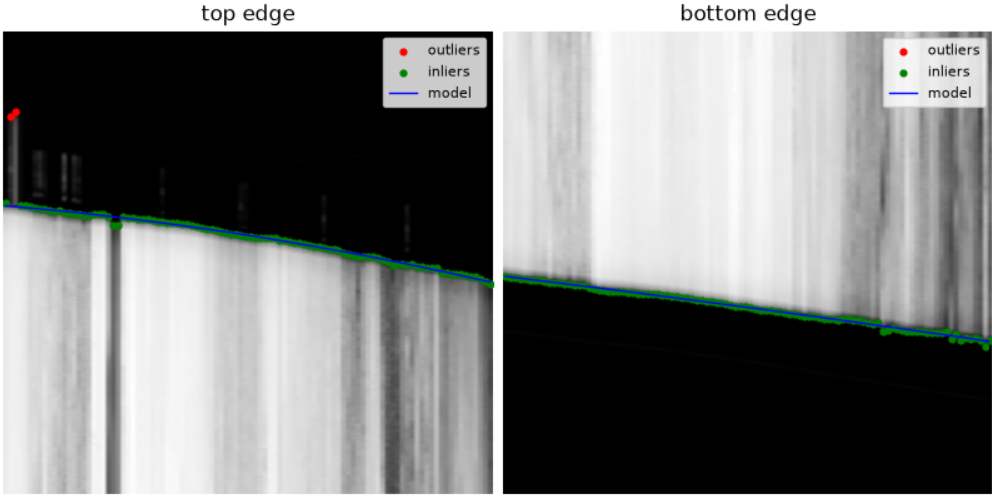
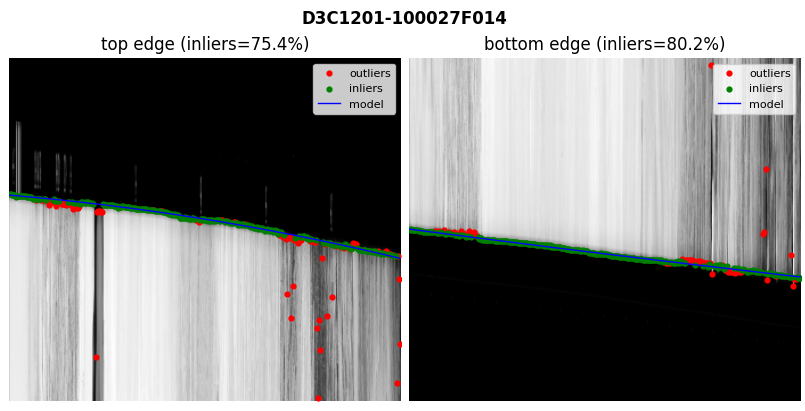
code review and a bit of cleaning

Changed region(s): [[0.0, 0.0, 1.0, 1.0], [0.4969, 0.8175, 0.528, 0.8467]]

diff --git a/src/hipp/kh9pc/restitution/poly_strategy.py b/src/hipp/kh9pc/restitution/poly_strategy.py
@@ -1,31 +1,32 @@
 """
 Copyright (c) 2026 HIPP developers
 Description: PolyStrategy — polynomial edge fitting for KH-9 PC restitution. Samples
-    rupture points along the top and bottom film edges in a downsampled grid, fits a
-    RANSAC polynomial per edge, then applies a Thin Plate Spline warp to straighten
-    the curved edges.
+    edge points along the top and bottom film edges in a downsampled grid, fits a
+    RANSAC polynomial per edge, then applies an affine warp to straighten the
+    detected edges.
 """
 
 from dataclasses import dataclass, field
 from pathlib import Path
 from typing import Self
 
+import cv2
 import numpy as np
 import rasterio
 from numpy.typing import NDArray
 from rasterio.windows import Window
 from skimage.transform import AffineTransform
 from sklearn.linear_model import RANSACRegressor
-import cv2
 
 from hipp.image import SubImage, remap_tif_blockwise
-from hipp.kh9pc.kh9_image_spec import KH9ImageSpec
 from hipp.kh9pc.restitution.base import RestitutionStrategy, Transformation, fit_ransac_poly
 from hipp.kh9pc.restitution.vertical_detector import VerticalDetector
 
 
 @dataclass
 class PolyResult:
+    """Fitted polynomial edge model and diagnostics for one side (top or bottom)."""
+
     edge_points_global: NDArray[np.integer]
     edge_points_local: NDArray[np.integer]
     model: RANSACRegressor
@@ -36,10 +37,11 @@ class PolyResult:
 class PolyStrategy(RestitutionStrategy):
     """Restitution strategy based on polynomial edge fitting.
 
-    Detects rupture points along the top and bottom film edges in a downsampled
+    Detects edge points along the top and bottom film edges in a downsampled
     horizontal grid, fits a RANSAC polynomial per edge, then warps the image with
-    a Thin Plate Spline transform to map the curved edges to horizontal target lines.
-    Fails if the inlier ratio on either edge falls below ``min_inliers_threshold``.
+    an affine transform to map the detected edges to horizontal target lines.
+    Fails if the top/bottom gap strays too far from the expected image height,
+    in mean or in standard deviation (see ``compute_metrics``).
     """
 
     vertical_detector: VerticalDetector = field(default_factory=VerticalDetector)
@@ -61,7 +63,7 @@ class PolyStrategy(RestitutionStrategy):
 
     @property
     def is_failed(self) -> bool:
-        """True if either edge inlier ratio is below ``min_inliers_threshold``."""
+        """True if the top/bottom gap's relative error or std exceeds ``max_relative_error``/``max_std``."""
         relative_error, std_dist = self.compute_metrics()
 
         return (relative_error > self.max_relative_error) or (std_dist > self.max_std)
@@ -82,7 +84,7 @@ class PolyStrategy(RestitutionStrategy):
 
     @property
     def transformation_(self) -> Transformation:
-        """TPS Transformation from curved edges to horizontal lines (computed lazily)."""
+        """Affine Transformation from detected edges to horizontal lines (computed lazily)."""
         if self.__transformation_ is None:
             self.__transformation_ = self._compute_transformation()
         return self.__transformation_
@@ -94,7 +96,7 @@ class PolyStrategy(RestitutionStrategy):
 
         col_off, _ = self.vertical_detector.edges_
         window_width = self.vertical_detector.detected_width_
-        expected_height = KH9ImageSpec.from_raster_filepath(raster_filepath).expected_size[1]
+        expected_height = self.spec_.expected_size[1]
 
         with rasterio.open(raster_filepath) as src:
             window_height = src.height - expected_height
@@ -137,7 +139,7 @@ class PolyStrategy(RestitutionStrategy):
         """Build an affine Transformation that maps the fitted curved edges to horizontal target lines."""
         left, right = self.vertical_detector.edges_
         detected_width = self.vertical_detector.detected_width_
-        output_width, output_height = KH9ImageSpec.from_raster_filepath(self.raster_filepath_).expected_size
+        output_width, output_height = self.spec_.expected_size
 
         x = np.linspace(left, right, self.n_points)
 
@@ -154,8 +156,8 @@ class PolyStrategy(RestitutionStrategy):
         dst = np.column_stack((np.concatenate((x, x)), np.concatenate((y_top_dst, y_bot_dst))))
 
         # inverse source destination (important)
-        deformation = AffineTransform()
-        if not deformation.estimate(dst, src):
+        deformation = AffineTransform().from_estimate(dst, src)
+        if not deformation:
             raise RuntimeError("Affine transformation estimation failed.")
 
         # ---- CENTERING TO OUTPUT ----
@@ -172,7 +174,7 @@ class PolyStrategy(RestitutionStrategy):
         )
 
     def transform(self, output_path: str | Path) -> None:
-        """Write the restituted image using the polynomial TPS warp."""
+        """Write the restituted image using the polynomial affine warp."""
         tf = self.transformation_
 
         remap_tif_blockwise(
@@ -180,11 +182,14 @@ class PolyStrategy(RestitutionStrategy):
             output_path,
             tf.inverse_remap,
             tf.output_size,
-            block_size=2**13,
-            lowres_step=100,
         )
 
     def compute_metrics(self) -> tuple[float, float]:
+        """Compare the fitted top/bottom gap to the expected image height.
+
+        Returns the relative error between the mean gap and the expected height,
+        and the gap's standard deviation across the detected width.
+        """
         start, end = self.vertical_detector.edges_
 
         X = np.linspace(start, end, 100).reshape(-1, 1)
@@ -194,7 +199,7 @@ class PolyStrategy(RestitutionStrategy):
 
         dist = y_bottom - y_top
 
-        true_height = KH9ImageSpec.from_raster_filepath(self.raster_filepath_).expected_size[1]
+        true_height = self.spec_.expected_size[1]
 
         relative_error = np.abs(np.mean(dist) - true_height) / true_height
         std_dist = np.std(dist)
@@ -203,6 +208,10 @@ class PolyStrategy(RestitutionStrategy):
 
 
 def find_edge_on_vec(vec: NDArray[np.floating], threshold: float = 20.0, reverse_scan: bool = False) -> int | None:
+    """Locate the film edge in a 1D column profile as the steepest gradient before the background threshold crossing.
+
+    Returns None if the profile never drops below *threshold*.
+    """
     if reverse_scan:
         vec = vec[::-1]
 
@@ -223,6 +232,7 @@ def find_edge_on_vec(vec: NDArray[np.floating], threshold: float = 20.0, reverse
 
 
 def find_edge_points(img: cv2.typing.MatLike, threshold: float = 20, reverse_scan: bool = False) -> NDArray[np.integer]:
+    """Run ``find_edge_on_vec`` on every column of *img*, returning the ``(col, row)`` of each detected edge."""
     res = []
     for i in range(img.shape[1]):
         edge = find_edge_on_vec(img[:, i].astype(np.float64), threshold, reverse_scan)

diff --git a/src/hipp/kh9pc/restitution/fiducial_strategy.py b/src/hipp/kh9pc/restitution/fiducial_strategy.py
@@ -28,7 +28,6 @@ from hipp.kh9pc.fiducial_patterns import (
     compute_global_src_and_dst_points,
     evaluate_pattern,
 )
-from hipp.kh9pc.kh9_image_spec import KH9ImageSpec
 from hipp.kh9pc.restitution.base import DEFAULT_OUTPUT_HEIGHT, DetectionError, RestitutionStrategy, Transformation
 from hipp.kh9pc.restitution.poly_strategy import PolyStrategy
 
@@ -91,11 +90,6 @@ class FiducialStrategy(RestitutionStrategy):
     ----------
     poly_strategy:
         Fitted (or to-be-fitted) strategy that provides the horizontal edge models.
-    kh9_image_spec:
-        Image specification describing which fiducial template set to use
-        (``fiducial_type`` field: ``"disk"`` for missions D3C1201–D3C1213,
-        ``"wagon_wheel"`` for D3C1214–D3C1219). If ``None`` (default), the spec
-        is inferred from the image filename at fit time via
     block_width:
         Width in pixels of each scanning block.
     threshold:
@@ -109,7 +103,6 @@ class FiducialStrategy(RestitutionStrategy):
     """
 
     poly_strategy: PolyStrategy = field(default_factory=PolyStrategy)
-    polynomial_degree: int = 7
     block_width: int = 512
     threshold: float = 0.5
     nms_threshold: float = 0.1
@@ -121,7 +114,6 @@ class FiducialStrategy(RestitutionStrategy):
         super().__init__()
         self._results: dict[str, FiducialResult] = {}
         self.__transformation_: Transformation | None = None
-        self.kh9_image_spec_: KH9ImageSpec | None = None
 
     # ------------------------------------------------------------------
     # Public properties
@@ -144,10 +136,8 @@ class FiducialStrategy(RestitutionStrategy):
     @property
     def is_failed(self) -> bool:
         """True if both primary patterns (top and bottom) score below ``min_score_threshold``."""
-        if self.kh9_image_spec_ is None:
-            raise RuntimeError("Call fit() before")
-        primary_top_pattern = self.kh9_image_spec_.top_fiducial_patterns[0]
-        primary_bottom_pattern = self.kh9_image_spec_.bottom_fiducial_patterns[0]
+        primary_top_pattern = self.spec_.top_fiducial_patterns[0]
+        primary_bottom_pattern = self.spec_.bottom_fiducial_patterns[0]
 
         return (
             self.top_.patterns[primary_top_pattern].score < self.min_score_threshold
@@ -179,8 +169,7 @@ class FiducialStrategy(RestitutionStrategy):
 
     def _fit(self, raster_filepath: Path) -> Self:
         """Infer image spec, run PolyStrategy, then scan both sides for fiducial detections."""
-        self.kh9_image_spec_ = KH9ImageSpec.from_raster_filepath(raster_filepath)
-        self.templates_ = _load_kind(self.kh9_image_spec_.fiducial_type)
+        self.templates_ = _load_kind(self.spec_.fiducial_type)
 
         if not self.poly_strategy.is_fitted or raster_filepath != self.poly_strategy.raster_filepath_:
             self.poly_strategy.fit(raster_filepath)
@@ -292,8 +281,7 @@ class FiducialStrategy(RestitutionStrategy):
         fiducial_pattern: Patterns,
     ) -> DetectedPattern:
         """Evaluate all DBSCAN clusters for one pattern type and return the highest-scoring one."""
-        assert self.kh9_image_spec_ is not None
-        expected_width = self.kh9_image_spec_.expected_size[0]
+        expected_width = self.spec_.expected_size[0]
         result = evaluate_pattern(fiducial_pattern, np.empty((0, 2), dtype=np.float64), expected_width)
 
         for label in np.unique(labels):
@@ -316,10 +304,9 @@ class FiducialStrategy(RestitutionStrategy):
         fiducial_patterns: tuple[Patterns, Patterns],
     ) -> dict[str, DetectedPattern]:
         """Grid search over DBSCAN (eps, residual weight) to maximise the score of each pattern."""
-        assert self.kh9_image_spec_ is not None
         X_scaled: NDArray[np.floating] = StandardScaler().fit_transform(features)
         patterns: dict[str, DetectedPattern] = {
-            pt: evaluate_pattern(pt, np.empty((0, 2), dtype=np.float64), self.kh9_image_spec_.expected_size[0])
+            pt: evaluate_pattern(pt, np.empty((0, 2), dtype=np.float64), self.spec_.expected_size[0])
             for pt in fiducial_patterns
         }
 
@@ -342,13 +329,12 @@ class FiducialStrategy(RestitutionStrategy):
         side: Literal["top", "bottom"],
     ) -> tuple[dict[str, DetectedPattern], NDArray[np.floating]]:
         """Compute detection features for one side and run grid-search clustering to classify patterns."""
-        assert self.kh9_image_spec_ is not None
         if side == "top":
             model = self.poly_strategy.top_.model
-            fiducial_patterns = self.kh9_image_spec_.top_fiducial_patterns
+            fiducial_patterns = self.spec_.top_fiducial_patterns
         else:
             model = self.poly_strategy.bottom_.model
-            fiducial_patterns = self.kh9_image_spec_.bottom_fiducial_patterns
+            fiducial_patterns = self.spec_.bottom_fiducial_patterns
 
         centers_xy, features = self._compute_detection_features(boxes, scores, model)
         patterns = self._grid_search_clustering(features, centers_xy, fiducial_patterns)
@@ -363,13 +349,12 @@ class FiducialStrategy(RestitutionStrategy):
         physical row spacing. A forward TPS is used to map vertical edges into destination
         space so the crop is centred correctly.
         """
-        assert self.kh9_image_spec_ is not None
         if self.is_failed:
             raise DetectionError("Can't compute the transformation with a failed estimation")
 
         # use only primary patterns (sparse & mid) cause we know the theorical spacing
-        primary_top_pattern = self.kh9_image_spec_.top_fiducial_patterns[0]
-        primary_bottom_pattern = self.kh9_image_spec_.bottom_fiducial_patterns[0]
+        primary_top_pattern = self.spec_.top_fiducial_patterns[0]
+        primary_bottom_pattern = self.spec_.bottom_fiducial_patterns[0]
 
         top = self.top_.patterns[primary_top_pattern]
         bottom = self.bottom_.patterns[primary_bottom_pattern]
@@ -388,7 +373,7 @@ class FiducialStrategy(RestitutionStrategy):
         edges_dst = forward_tps(np.array([[col_left, y_center], [col_right, y_center]], dtype=np.float32))
         x_center = float((edges_dst[0, 0] + edges_dst[1, 0]) / 2)
 
-        final_width, final_height = self.kh9_image_spec_.expected_size
+        final_width, final_height = self.spec_.expected_size
         crop_offset = (int(x_center - final_width / 2), int(y_center - final_height / 2))
 
         # inverse source destination (important)

diff --git a/src/hipp/kh9pc/restitution/base.py b/src/hipp/kh9pc/restitution/base.py
@@ -18,6 +18,8 @@ from sklearn.linear_model import LinearRegression, RANSACRegressor
 from sklearn.pipeline import make_pipeline
 from sklearn.preprocessing import PolynomialFeatures, StandardScaler
 
+from hipp.kh9pc.kh9_image_spec import KH9ImageSpec
+
 logger = logging.getLogger(__name__)
 
 DEFAULT_OUTPUT_HEIGHT: int = 22064
@@ -39,6 +41,7 @@ class FittingClass(ABC):
 
     def __init__(self) -> None:
         self.__raster_filepath_: Path | None = None
+        self.__spec_: KH9ImageSpec | None = None
 
     @property
     def raster_filepath_(self) -> Path:
@@ -46,6 +49,13 @@ class FittingClass(ABC):
         if self.__raster_filepath_ is None:
             raise RuntimeError("Call fit() before.")
         return self.__raster_filepath_
+
+    @property
+    def spec_(self) -> KH9ImageSpec:
+        """KH9ImageSpec derived from ``raster_filepath_``, computed once per ``fit()`` call."""
+        if self.__spec_ is None:
+            self.__spec_ = KH9ImageSpec.from_raster_filepath(self.raster_filepath_)
+        return self.__spec_
 
     @property
     def is_fitted(self) -> bool:
@@ -66,6 +76,7 @@ class FittingClass(ABC):
     def fit(self, raster_filepath: str | Path) -> Self:
         """Run ``_fit`` on *raster_filepath*, log start/end, and record the source path."""
         self.__raster_filepath_ = Path(raster_filepath)
+        self.__spec_ = None
         logger.info("%s - start fit...", self.logging_prefix)
         fit_res = self._fit(self.__raster_filepath_)
         logger.info("%s - finish fit : [%s]", self.logging_prefix, "FAILED" if self.is_failed else "SUCCESS")

diff --git a/src/hipp/kh9pc/quality_control.py b/src/hipp/kh9pc/quality_control.py
@@ -141,10 +141,12 @@ def plot_poly_edges(detector: PolyStrategy) -> Figure:
         local_pred = result.sub_image.to_local(global_pred)
         ax.plot(local_pred[:, 0], local_pred[:, 1], color="blue", linewidth=1, label="model")
 
-        ax.set_title(f"{side} edge")
+        inlier_pct = 100 * inlier_mask.mean()
+        ax.set_title(f"{side} edge (inliers={inlier_pct:.1f}%)")
         ax.legend(loc="best", fontsize=8)
         ax.axis("off")
 
+    fig.suptitle(detector.raster_filepath_.stem, fontsize=12, fontweight="bold")
     return fig
 
 

diff --git a/src/hipp/kh9pc/restitution/vertical_detector.py b/src/hipp/kh9pc/restitution/vertical_detector.py
@@ -17,7 +17,6 @@ import rasterio
 from rasterio.windows import Window
 
 from hipp.image import SubImage
-from hipp.kh9pc.kh9_image_spec import KH9ImageSpec
 from hipp.kh9pc.restitution.base import FittingClass, DetectionError
 
 
@@ -85,8 +84,7 @@ class VerticalDetector(FittingClass):
         (caught here, setting ``is_failed``) if either edge cannot be located."""
         self._failed = False
         self._results = {}
-        image_spec = KH9ImageSpec.from_raster_filepath(raster_filepath)
-        expected_width = image_spec.expected_size[0]
+        expected_width = self.spec_.expected_size[0]
 
         with rasterio.open(raster_filepath) as src:
             try:

diff --git a/docs/kh9pc/PREPROCESSING.md b/docs/kh9pc/PREPROCESSING.md
@@ -62,9 +62,9 @@ A mission can present several fiducial patterns on the same side (e.g. sparse, m
 
 ### 2.2 Detect top and bottom edges
 
-For each side, a horizontal strip covering the top (or bottom) 15% of the image height is extracted, spanning the left/right image bounds found in [2.3](#23-detect-left-and-right-edges). This strip is downsampled onto a grid of columns, and for each column the intensity profile is scanned for the first transition from bright image content to the dark background outside it — this transition is the "rupture" point marking the edge at that column. The scan direction is chosen so both edges are found from the image side outward: upward for the top strip, downward for the bottom strip.
+For each side, a horizontal strip is extracted, spanning the left/right image bounds found in [2.3](#23-detect-left-and-right-edges). Its height is the margin between the raster height and the mission's expected effective image height (from `KH9ImageSpec`), so the strip always reaches from the film leader well into the image content regardless of mission format. This strip is downsampled onto a grid of columns, and for each column the intensity profile is scanned for the point where it first drops below a background threshold — the film leader outside the image. Rather than taking that threshold crossing directly as the edge, the portion of the profile leading up to it is inspected for its steepest gradient drop, and that point is kept as the "rupture" marking the edge at that column — more precise than the raw crossing. The scan direction is chosen so both edges are found from the image side outward: upward for the top strip, downward for the bottom strip.
 
-The rupture points collected across all sampled columns are fit with a RANSAC polynomial (degree 2 by default) per edge. RANSAC keeps the fit robust to outlier ruptures caused by scratches, dust, or other scanning artifacts, and the resulting inlier ratio is used to flag the detection as unreliable if too many ruptures had to be rejected.
+The rupture points collected across all sampled columns are fit with a RANSAC polynomial (degree 2 by default) per edge. RANSAC keeps the fit robust to outlier ruptures caused by scratches, dust, or other scanning artifacts. Fit quality is then checked by comparing the two fitted models against each other: the mean vertical gap between the top and bottom curves is compared to the mission's expected effective height (from `KH9ImageSpec`), and the gap's standard deviation across the width is also checked — a large relative error or a large spread flags the detection as unreliable (see [2.4](#24-failure-handling)).
 
 ![Top and bottom edge RANSAC fit](img/kh9pc-poly-edges.png)
 *Detected ruptures along the top and bottom strips, with RANSAC inliers/outliers and the fitted degree-2 polynomial model.*
@@ -90,7 +90,7 @@ If either side fails to cross the gradient threshold, detection aborts immediate
 Each detector in the restitution chain can fail independently:
 
 - **Left/right edges** ([2.3](#23-detect-left-and-right-edges)): the left edge is searched once, in a window spanning its full possible range given the mission's expected width. The right edge is then searched once, in a window centered on the left edge plus the expected width. Neither side is retried — if either fails, fitting aborts immediately with an exception — every other detector depends on these bounds.
-- **Top/bottom edges** ([2.2](#22-detect-top-and-bottom-edges)): a side with no rupture points at all aborts fitting. Otherwise, a low RANSAC inlier ratio only flags the polynomial fit as unreliable; the fitted model is still used to bound the fiducial search windows in [2.1](#21-detect-top-and-bottom-fiducial-marks), since the fiducial marks — not the edges — are the actual source of truth for restitution.
+- **Top/bottom edges** ([2.2](#22-detect-top-and-bottom-edges)): a side with no rupture points at all aborts fitting. Otherwise, the fitted top/bottom models are only flagged as unreliable if the mean gap between them strays too far from the mission's expected effective height or is too inconsistent across the width; the fitted models are still used to bound the fiducial search windows in [2.1](#21-detect-top-and-bottom-fiducial-marks), since the fiducial marks — not the edges — are the actual source of truth for restitution.
 - **Fiducial marks** ([2.1](#21-detect-top-and-bottom-fiducial-marks)): a side with zero template-matching detections aborts fitting. Otherwise, a side only counts as usable once its primary pattern (the one with a known physical spacing) reaches a minimum matching score. If just one side falls short, its control points are synthesized from the other side using the known vertical spacing between fiducial rows, and restitution proceeds. Only if **both** sides fall short is the image marked as failed, in which case computing the TPS transform raises an error.
 
 An aborted or failed image raises an exception instead of producing a partial output. `preprocess_kh9pc` does not catch it: for a single image the error propagates to the caller, while `batch_preprocess_kh9pc` catches it per image so the rest of the batch keeps running. The mosaic and the fitted strategy (`work/joined_images/`, `work/joblibs/`) are kept on failure so the image can be retried without redoing the mosaicking step. QC figures under `qc/restitution/` are written as soon as fiducial detection succeeds — even if the image later fails at the transform step — making them the first place to check when diagnosing a failure.